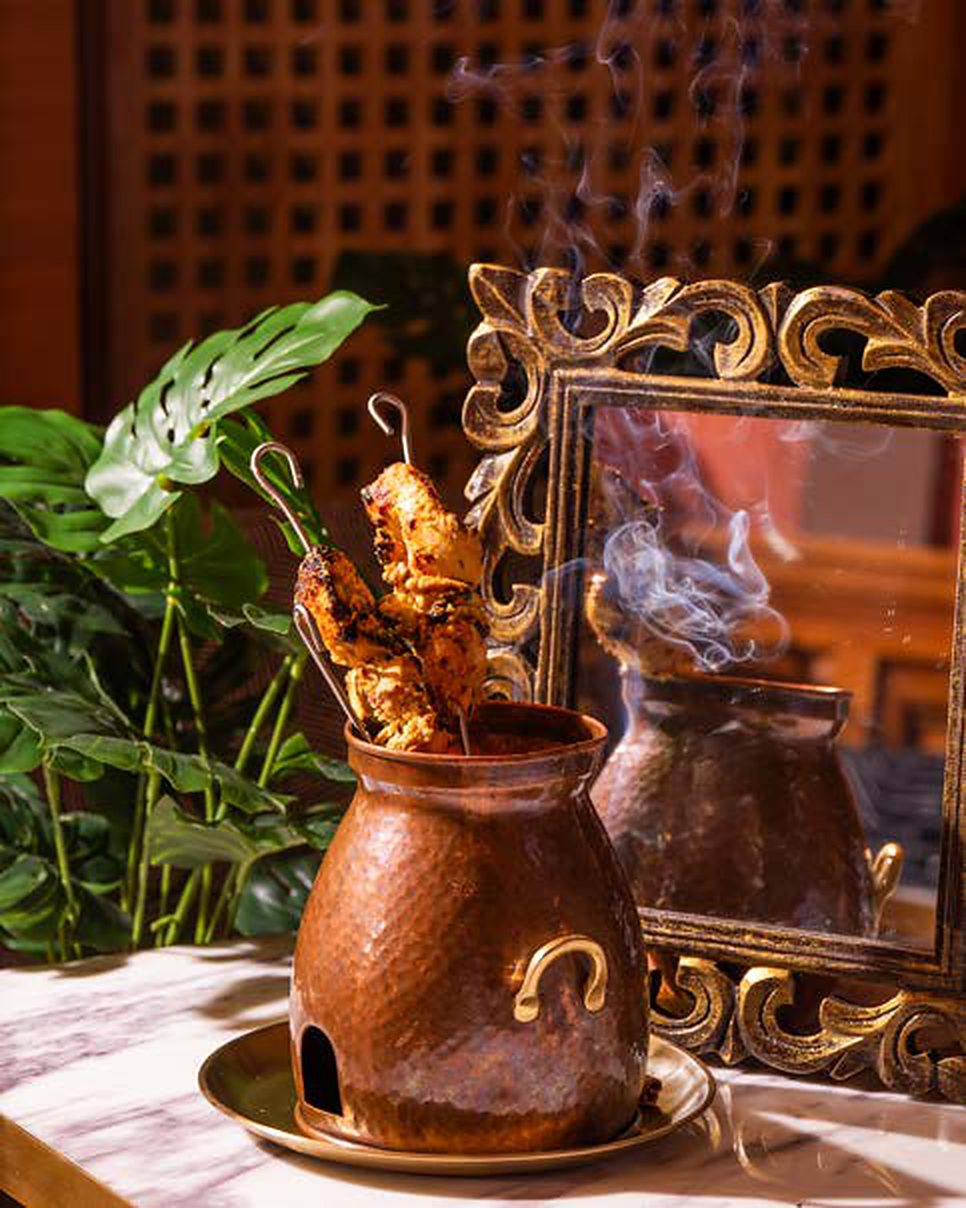
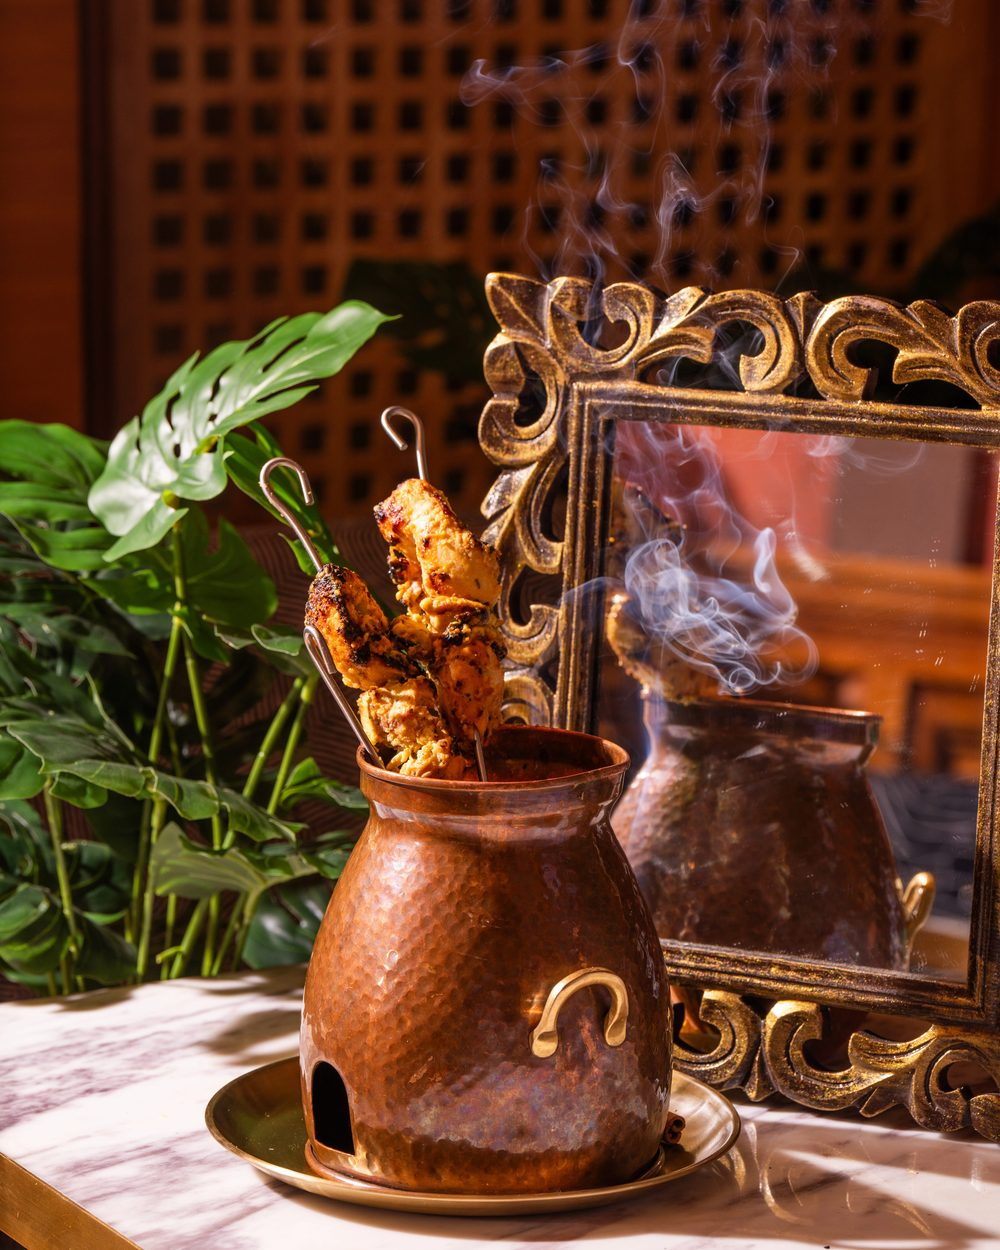
Gulati: place Edamame Galouti and Murgh Malai Tikka studio photos
Claude-Session: https://claude.ai/code/session_01MkMfM9EpwBi7pASpUdiXjt

diff --git a/gulati/index.html b/gulati/index.html
@@ -123,7 +123,7 @@
       <div class="dish-grid dish-grid--4">
         <article class="dish reveal">
           <figure>
-            <div class="dish__media img-reveal"><img src="/assets/img/dish-edamame-galouti.jpg" alt="Edamame Galouti kebabs with a chilled drink" width="1288" height="1610" loading="lazy"></div>
+            <div class="dish__media img-reveal"><img src="/assets/img/dish-edamame-galouti.jpg" alt="Edamame Galouti kebabs with a chilled drink" width="1000" height="1250" loading="lazy"></div>
             <figcaption><span class="orn orn-reveal" aria-hidden="true"><i></i><i></i><i></i></span><span class="name">Edamame Galouti</span></figcaption>
           </figure>
         </article>
@@ -135,7 +135,7 @@
         </article>
         <article class="dish reveal" data-delay="2">
           <figure>
-            <div class="dish__media img-reveal"><img src="/assets/img/dish-murgh-malai-tikka.jpg" alt="Murgh Malai Tikka skewered in a smoking copper pot" width="966" height="1208" loading="lazy"></div>
+            <div class="dish__media img-reveal"><img src="/assets/img/dish-murgh-malai-tikka.jpg" alt="Murgh Malai Tikka skewered in a smoking copper pot" width="1000" height="1250" loading="lazy"></div>
             <figcaption><span class="orn orn-reveal" aria-hidden="true"><i></i><i></i><i></i></span><span class="name">Murgh Malai Tikka</span></figcaption>
           </figure>
         </article>
